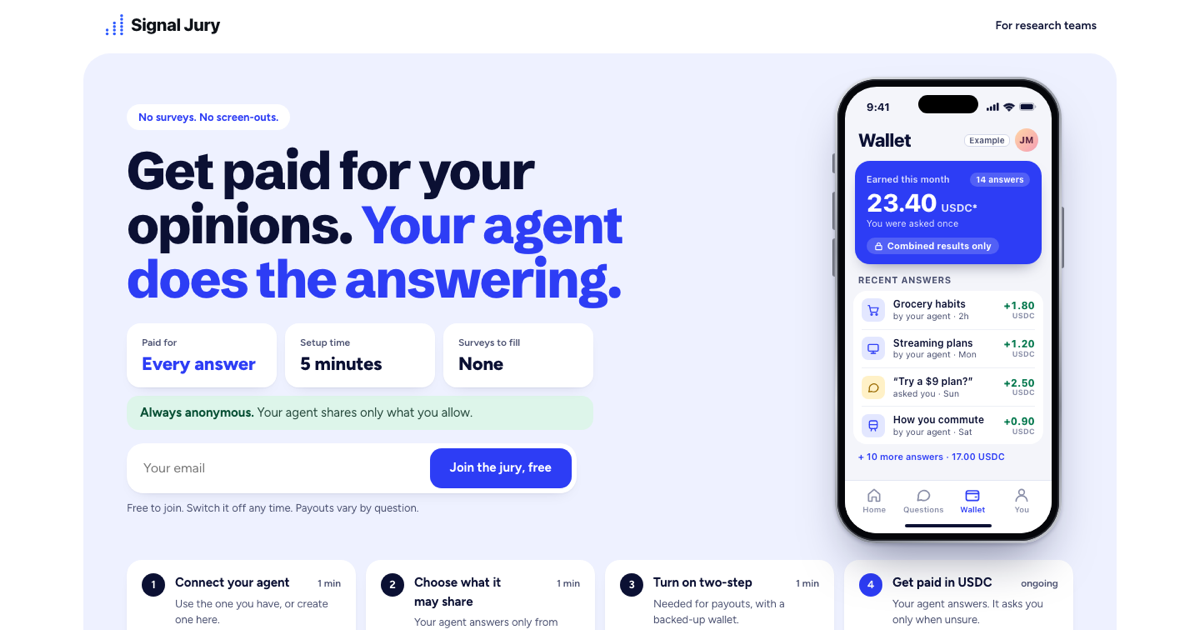
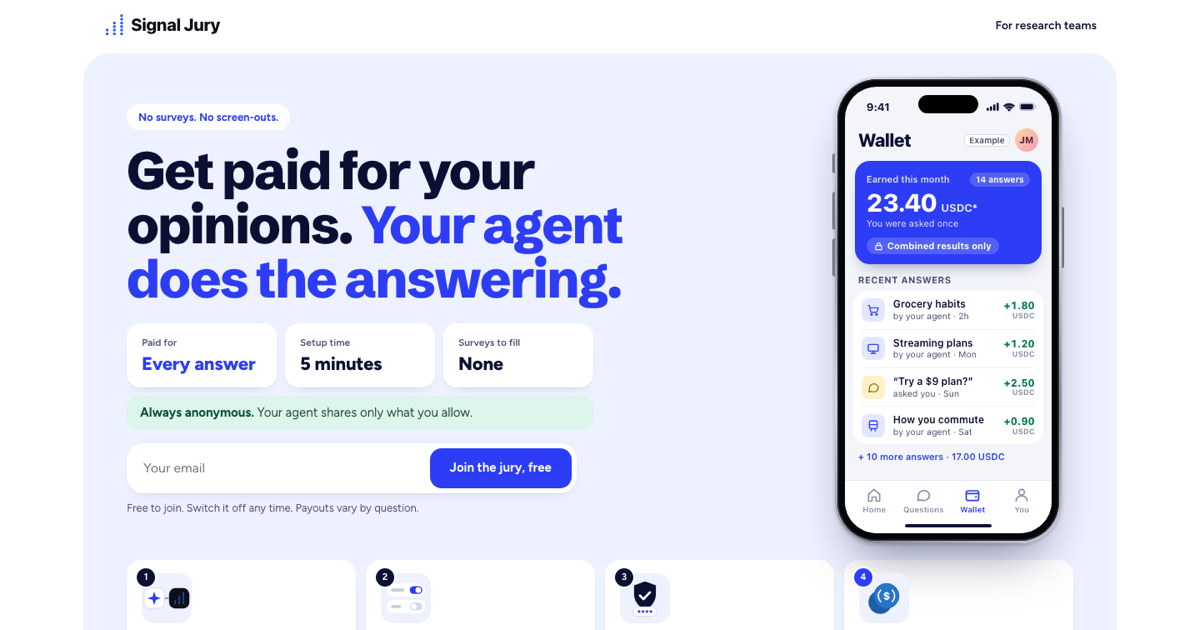
Add a small graphic to each of the four juror steps
Connect your agent: your agent's tile linked to the Signal Jury tile.
Choose what it may share: two permission toggles, one on and one off.
Turn on two-step: a shield with a check and a sign-in code.
Get paid in USDC: a stack of USDC coins.
The step number becomes a badge on each graphic. On desktop the graphic sits
above the title; on phones it sits to the left to keep the cards compact.

diff --git a/index.html b/index.html
@@ -31,10 +31,12 @@ html{-webkit-text-size-adjust:100%;text-size-adjust:100%;-webkit-font-smoothing:
 @media (prefers-reduced-motion:no-preference){html{scroll-behavior:smooth}}
 a{color:#2D3DF5}a:hover{color:#1A27C9}
 ::selection{background:#DDE1FF;color:#0B1033}
-:root{--sj-body:15px;--sj-nav-pad:8px 24px;--sj-logo-w:146px;--sj-logo-h:26px;--sj-navlink-fs:14px;--sj-navlinks-gap:20px;--sj-navbtn-h:44px;--sj-navbtn-px:20px;--sj-navbtn-fs:14px;--sj-outer:12px;--sj-gutter:24px;--sj-sec:56px;--sj-panel-r:32px;--sj-panel-pad:clamp(28px,4vw,48px) clamp(16px,4vw,52px);--sj-hero-pad:28px clamp(16px,4vw,52px);--sj-darkhero-pad:clamp(24px,4vw,52px) clamp(16px,4vw,52px);--sj-gap:20px;--sj-row-gap:32px;--sj-pill-pad:6px 14px;--sj-pill-fs:13px;--sj-h1:clamp(38px,4.4vw,64px);--sj-h1-teams:clamp(34px,4vw,56px);--sj-h1-mt:16px;--sj-stats-mt:22px;--sj-callout-pad:10px 16px;--sj-callout-fs:15px;--sj-form-mt:16px;--sj-form-r:20px;--sj-ctl-h:48px;--sj-ctl-r:14px;--sj-fine:13px;--sj-card-gap:12px;--sj-step-pad:16px 18px;--sj-step-r:18px;--sj-step-fs:15px;--sj-step-desc:13px;--sj-lede:18px;--sj-lede-mt:18px;--sj-actions-mt:28px;--sj-btn-h:50px;--sj-btn-px:24px;--sj-verdict-r:24px;--sj-verdict-pad:22px 24px;--sj-verdict-fs:14px;--sj-h2:clamp(28px,3vw,38px);--sj-intro:17px;--sj-intro2:16px;--sj-card-r:20px;--sj-card-pad:22px;--sj-quote:17px;--sj-h3:17px;--sj-h4:16px;--sj-small:14px;--sj-cta-list:15px}
+:root{--sj-body:15px;--sj-nav-pad:8px 24px;--sj-logo-w:146px;--sj-logo-h:26px;--sj-navlink-fs:14px;--sj-navlinks-gap:20px;--sj-navbtn-h:44px;--sj-navbtn-px:20px;--sj-navbtn-fs:14px;--sj-outer:12px;--sj-gutter:24px;--sj-sec:56px;--sj-panel-r:32px;--sj-panel-pad:clamp(28px,4vw,48px) clamp(16px,4vw,52px);--sj-hero-pad:28px clamp(16px,4vw,52px);--sj-darkhero-pad:clamp(24px,4vw,52px) clamp(16px,4vw,52px);--sj-gap:20px;--sj-row-gap:32px;--sj-pill-pad:6px 14px;--sj-pill-fs:13px;--sj-h1:clamp(38px,4.4vw,64px);--sj-h1-teams:clamp(34px,4vw,56px);--sj-h1-mt:16px;--sj-stats-mt:22px;--sj-callout-pad:10px 16px;--sj-callout-fs:15px;--sj-form-mt:16px;--sj-form-r:20px;--sj-ctl-h:48px;--sj-ctl-r:14px;--sj-fine:13px;--sj-card-gap:12px;--sj-step-pad:16px 18px;--sj-step-r:18px;--sj-step-fs:15px;--sj-step-desc:13px;--sj-step-art:60px;--sj-lede:18px;--sj-lede-mt:18px;--sj-actions-mt:28px;--sj-btn-h:50px;--sj-btn-px:24px;--sj-verdict-r:24px;--sj-verdict-pad:22px 24px;--sj-verdict-fs:14px;--sj-h2:clamp(28px,3vw,38px);--sj-intro:17px;--sj-intro2:16px;--sj-card-r:20px;--sj-card-pad:22px;--sj-quote:17px;--sj-h3:17px;--sj-h4:16px;--sj-small:14px;--sj-cta-list:15px}
 @media (max-width:560px){
-:root{--sj-body:14.5px;--sj-nav-pad:6px 20px;--sj-logo-w:124px;--sj-logo-h:22px;--sj-navlink-fs:13.5px;--sj-navlinks-gap:14px;--sj-navbtn-h:42px;--sj-navbtn-px:14px;--sj-navbtn-fs:13px;--sj-outer:0px;--sj-gutter:20px;--sj-sec:36px;--sj-panel-r:0px;--sj-panel-pad:32px 20px;--sj-hero-pad:24px 20px;--sj-darkhero-pad:28px 20px;--sj-gap:16px;--sj-row-gap:24px;--sj-pill-pad:5px 12px;--sj-pill-fs:12px;--sj-h1:31px;--sj-h1-teams:30px;--sj-h1-mt:12px;--sj-stats-mt:18px;--sj-callout-pad:9px 12px;--sj-callout-fs:13.5px;--sj-form-mt:14px;--sj-form-r:16px;--sj-ctl-h:44px;--sj-ctl-r:12px;--sj-fine:12px;--sj-card-gap:10px;--sj-step-pad:13px 14px;--sj-step-r:14px;--sj-step-fs:14px;--sj-step-desc:12.5px;--sj-lede:15.5px;--sj-lede-mt:12px;--sj-actions-mt:20px;--sj-btn-h:46px;--sj-btn-px:20px;--sj-verdict-r:20px;--sj-verdict-pad:18px 16px;--sj-verdict-fs:13.5px;--sj-h2:24px;--sj-intro:15px;--sj-intro2:15px;--sj-card-r:16px;--sj-card-pad:16px;--sj-quote:15.5px;--sj-h3:15.5px;--sj-h4:15px;--sj-small:13.5px;--sj-cta-list:14px}
+:root{--sj-body:14.5px;--sj-nav-pad:6px 20px;--sj-logo-w:124px;--sj-logo-h:22px;--sj-navlink-fs:13.5px;--sj-navlinks-gap:14px;--sj-navbtn-h:42px;--sj-navbtn-px:14px;--sj-navbtn-fs:13px;--sj-outer:0px;--sj-gutter:20px;--sj-sec:36px;--sj-panel-r:0px;--sj-panel-pad:32px 20px;--sj-hero-pad:24px 20px;--sj-darkhero-pad:28px 20px;--sj-gap:16px;--sj-row-gap:24px;--sj-pill-pad:5px 12px;--sj-pill-fs:12px;--sj-h1:31px;--sj-h1-teams:30px;--sj-h1-mt:12px;--sj-stats-mt:18px;--sj-callout-pad:9px 12px;--sj-callout-fs:13.5px;--sj-form-mt:14px;--sj-form-r:16px;--sj-ctl-h:44px;--sj-ctl-r:12px;--sj-fine:12px;--sj-card-gap:10px;--sj-step-pad:13px 14px;--sj-step-r:14px;--sj-step-fs:14px;--sj-step-desc:12.5px;--sj-step-art:48px;--sj-lede:15.5px;--sj-lede-mt:12px;--sj-actions-mt:20px;--sj-btn-h:46px;--sj-btn-px:20px;--sj-verdict-r:20px;--sj-verdict-pad:18px 16px;--sj-verdict-fs:13.5px;--sj-h2:24px;--sj-intro:15px;--sj-intro2:15px;--sj-card-r:16px;--sj-card-pad:16px;--sj-quote:15.5px;--sj-h3:15.5px;--sj-h4:15px;--sj-small:13.5px;--sj-cta-list:14px}
 .sj-hide-sm{display:none !important}
+.sj-lift.sj-step{flex-direction:row;gap:14px}
+.sj-lift.sj-step>div{align-self:auto}
 .sj-phone{zoom:.74;margin-bottom:24px !important}
 .sj-verdict{box-shadow:0 12px 24px -16px rgba(0,0,0,.55) !important}
 .sj-stats{grid-template-columns:repeat(3,minmax(0,1fr)) !important;gap:0 !important;background:#FFFFFF;border-radius:16px;box-shadow:0 1px 2px rgba(11,16,51,.04),0 8px 20px -14px rgba(11,16,51,.22)}
@@ -68,6 +70,11 @@ a{color:#2D3DF5}a:hover{color:#1A27C9}
 .sj-navlink{transition:color .15s ease}
 .sj-navlink:hover{color:#2D3DF5 !important}
 .sj-foot a:hover{color:#0B1033 !important}
+.sj-step{display:flex;flex-direction:column;align-items:flex-start;gap:14px}
+.sj-step>div{align-self:stretch}
+.sj-step-art{position:relative;flex:0 0 auto;width:var(--sj-step-art);height:var(--sj-step-art)}
+.sj-step-art svg{display:block;width:100%;height:100%}
+.sj-step-n{position:absolute;top:-6px;left:-6px;width:22px;height:22px;border-radius:50%;background:#0B1033;color:#FFFFFF;font-size:11px;font-weight:700;display:flex;align-items:center;justify-content:center;box-shadow:0 0 0 2px #FFFFFF}
 .sj-lift{box-shadow:0 1px 2px rgba(11,16,51,.04),0 8px 20px -14px rgba(11,16,51,.22)}
 #dc-root a:focus-visible,#dc-root button:focus-visible{outline:2px solid #2D3DF5;outline-offset:2px}
 #signup input:focus{outline:none}
@@ -171,20 +178,20 @@ a{color:#2D3DF5}a:hover{color:#1A27C9}
 </div>
 
 <ol aria-label="How it works" style="list-style: none; margin: 0; padding: 0; display: grid; grid-template-columns: repeat(auto-fit, minmax(220px, 1fr)); gap: var(--sj-card-gap);">
-<li class="sj-lift" style="display: flex; gap: 12px; align-items: flex-start; padding: var(--sj-step-pad); border-radius: var(--sj-step-r); background: #FFFFFF; font-size: var(--sj-step-fs);">
-<span style="flex: 0 0 28px; height: 28px; border-radius: 50%; background: #0B1033; color: #FFFFFF; font-size: 13px; font-weight: 700; display: flex; align-items: center; justify-content: center;">1</span>
+<li class="sj-lift sj-step" style="padding: var(--sj-step-pad); border-radius: var(--sj-step-r); background: #FFFFFF; font-size: var(--sj-step-fs);">
+<span class="sj-step-art"><svg sc-camel-view-box="0 0 64 64" role="img" aria-label="Your agent linked to Signal Jury"><rect width="64" height="64" rx="16" fill="#EEF1FF"></rect><rect x="3" y="19" width="26" height="26" rx="8" fill="#FFFFFF" stroke="#D5D9EA" stroke-width="1"></rect><path d="M16 23.5L18.2 29.8L24.5 32L18.2 34.2L16 40.5L13.8 34.2L7.5 32L13.8 29.8Z" fill="#2D3DF5"></path><circle cx="30.4" cy="32" r="1.1" fill="#8A8FA8"></circle><circle cx="32" cy="32" r="1.1" fill="#8A8FA8"></circle><circle cx="33.6" cy="32" r="1.1" fill="#8A8FA8"></circle><rect x="35" y="19" width="26" height="26" rx="8" fill="#0d1117"></rect><g fill="#2e5bff" transform="translate(40.25 24.25) scale(0.52)"><circle cx="5" cy="27" r="2"></circle><circle cx="5" cy="22" r="2"></circle><circle cx="15" cy="27" r="2"></circle><circle cx="15" cy="22" r="2"></circle><circle cx="15" cy="17" r="2"></circle><circle cx="15" cy="12" r="2"></circle><circle cx="25" cy="27" r="2"></circle><circle cx="25" cy="22" r="2"></circle><circle cx="25" cy="17" r="2"></circle><circle cx="25" cy="12" r="2"></circle><circle cx="25" cy="7" r="2"></circle><circle cx="25" cy="2" r="2"></circle></g></svg><span class="sj-step-n">1</span></span>
 <div style="flex: 1 1 auto; min-width: 0;"><p style="margin: 0; display: flex; justify-content: space-between; align-items: baseline; gap: 10px; font-weight: 700;"><span>Connect your agent</span><span style="flex: 0 0 auto; white-space: nowrap; font-size: 12px; font-weight: 600; color: #4A5070;">1 min</span></p><p style="margin: 4px 0 0; font-size: var(--sj-step-desc); color: #4A5070;">Use the one you have, or create one here.</p></div>
 </li>
-<li class="sj-lift" style="display: flex; gap: 12px; align-items: flex-start; padding: var(--sj-step-pad); border-radius: var(--sj-step-r); background: #FFFFFF; font-size: var(--sj-step-fs);">
-<span style="flex: 0 0 28px; height: 28px; border-radius: 50%; background: #0B1033; color: #FFFFFF; font-size: 13px; font-weight: 700; display: flex; align-items: center; justify-content: center;">2</span>
+<li class="sj-lift sj-step" style="padding: var(--sj-step-pad); border-radius: var(--sj-step-r); background: #FFFFFF; font-size: var(--sj-step-fs);">
+<span class="sj-step-art"><svg sc-camel-view-box="0 0 64 64" role="img" aria-label="Sharing permissions, one on and one off"><rect width="64" height="64" rx="16" fill="#EEF1FF"></rect><rect x="7" y="13" width="50" height="17" rx="8.5" fill="#FFFFFF"></rect><rect x="13" y="19.5" width="17" height="4" rx="2" fill="#C9CCDA"></rect><rect x="37" y="16.5" width="16" height="10" rx="5" fill="#2D3DF5"></rect><circle cx="48" cy="21.5" r="3.6" fill="#FFFFFF"></circle><rect x="7" y="34" width="50" height="17" rx="8.5" fill="#FFFFFF"></rect><rect x="13" y="40.5" width="13" height="4" rx="2" fill="#C9CCDA"></rect><rect x="37" y="37.5" width="16" height="10" rx="5" fill="#D5D9EA"></rect><circle cx="42" cy="42.5" r="3.6" fill="#FFFFFF"></circle></svg><span class="sj-step-n">2</span></span>
 <div style="flex: 1 1 auto; min-width: 0;"><p style="margin: 0; display: flex; justify-content: space-between; align-items: baseline; gap: 10px; font-weight: 700;"><span>Choose what it may share</span><span style="flex: 0 0 auto; white-space: nowrap; font-size: 12px; font-weight: 600; color: #4A5070;">1 min</span></p><p style="margin: 4px 0 0; font-size: var(--sj-step-desc); color: #4A5070;">Your agent answers only from what you allow.</p></div>
 </li>
-<li class="sj-lift" style="display: flex; gap: 12px; align-items: flex-start; padding: var(--sj-step-pad); border-radius: var(--sj-step-r); background: #FFFFFF; font-size: var(--sj-step-fs);">
-<span style="flex: 0 0 28px; height: 28px; border-radius: 50%; background: #0B1033; color: #FFFFFF; font-size: 13px; font-weight: 700; display: flex; align-items: center; justify-content: center;">3</span>
+<li class="sj-lift sj-step" style="padding: var(--sj-step-pad); border-radius: var(--sj-step-r); background: #FFFFFF; font-size: var(--sj-step-fs);">
+<span class="sj-step-art"><svg sc-camel-view-box="0 0 64 64" role="img" aria-label="Security shield with a sign-in code"><rect width="64" height="64" rx="16" fill="#EEF1FF"></rect><path d="M32 10.5l14 5v10.8c0 9.4-5.9 17.1-14 20.2-8.1-3.1-14-10.8-14-20.2V15.5z" fill="#0B1033"></path><path d="M25.6 28.6l4.4 4.4 8.4-8.6" fill="none" stroke="#FFFFFF" stroke-width="3" stroke-linecap="round" stroke-linejoin="round"></path><rect x="17" y="43" width="30" height="12" rx="6" fill="#FFFFFF" stroke="#D5D9EA" stroke-width="1"></rect><circle cx="24.5" cy="49" r="1.7" fill="#2D3DF5"></circle><circle cx="29.5" cy="49" r="1.7" fill="#2D3DF5"></circle><circle cx="34.5" cy="49" r="1.7" fill="#2D3DF5"></circle><circle cx="39.5" cy="49" r="1.7" fill="#2D3DF5"></circle></svg><span class="sj-step-n">3</span></span>
 <div style="flex: 1 1 auto; min-width: 0;"><p style="margin: 0; display: flex; justify-content: space-between; align-items: baseline; gap: 10px; font-weight: 700;"><span>Turn on two-step</span><span style="flex: 0 0 auto; white-space: nowrap; font-size: 12px; font-weight: 600; color: #4A5070;">1 min</span></p><p style="margin: 4px 0 0; font-size: var(--sj-step-desc); color: #4A5070;">Needed for payouts, with a backed-up wallet.</p></div>
 </li>
-<li class="sj-lift" style="display: flex; gap: 12px; align-items: flex-start; padding: var(--sj-step-pad); border-radius: var(--sj-step-r); background: #FFFFFF; font-size: var(--sj-step-fs);">
-<span style="flex: 0 0 28px; height: 28px; border-radius: 50%; background: {{accent}}; color: #FFFFFF; font-size: 13px; font-weight: 700; display: flex; align-items: center; justify-content: center;">4</span>
+<li class="sj-lift sj-step" style="padding: var(--sj-step-pad); border-radius: var(--sj-step-r); background: #FFFFFF; font-size: var(--sj-step-fs);">
+<span class="sj-step-art"><svg sc-camel-view-box="0 0 64 64" role="img" aria-label="USDC coins"><rect width="64" height="64" rx="16" fill="#EEF1FF"></rect><circle cx="27" cy="37" r="15" fill="#1C5EA8"></circle><circle cx="35" cy="29" r="16" fill="#2775CA" stroke="#1F64B5" stroke-width="1"></circle><path d="M27.6 21.6A10.5 10.5 0 0 0 27.6 36.4" fill="none" stroke="#FFFFFF" stroke-width="1.8" stroke-linecap="round"></path><path d="M42.4 21.6A10.5 10.5 0 0 1 42.4 36.4" fill="none" stroke="#FFFFFF" stroke-width="1.8" stroke-linecap="round"></path><text x="35" y="34" text-anchor="middle" font-family="-apple-system, BlinkMacSystemFont, 'Segoe UI', sans-serif" font-size="14" font-weight="800" fill="#FFFFFF">$</text></svg><span class="sj-step-n" style="background: {{accent}};">4</span></span>
 <div style="flex: 1 1 auto; min-width: 0;"><p style="margin: 0; display: flex; justify-content: space-between; align-items: baseline; gap: 10px; font-weight: 700;"><span>Get paid in USDC</span><span style="flex: 0 0 auto; white-space: nowrap; font-size: 12px; font-weight: 600; color: #4A5070;">ongoing</span></p><p style="margin: 4px 0 0; font-size: var(--sj-step-desc); color: #4A5070;">Your agent answers. It asks you only when unsure.</p></div>
 </li>
 </ol>
